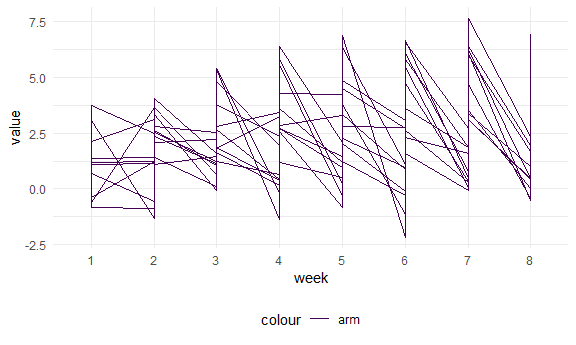
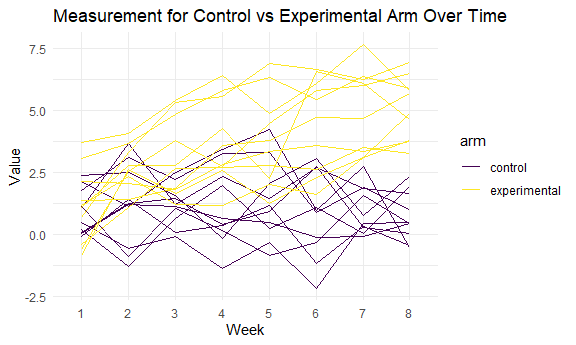
Made the plot for problem 2

diff --git a/p8105_hw5_lmb2295.md b/p8105_hw5_lmb2295.md
@@ -26,8 +26,14 @@ control_exp_df %>%
     names_prefix = "week_",
     values_to = "value"
     ) %>% 
-  ggplot(aes(x = week, y = value, group = id, color = "arm")) + 
-  geom_line()
+  unite(group, arm:id, sep = '', remove = FALSE) %>% 
+  ggplot(aes(x = week, y = value, group = group, color = arm)) + 
+  geom_line() + 
+  labs(
+    title = "Measurement for Control vs Experimental Arm Over Time",
+    x = "Week",
+    y = "Value") +
+   theme(legend.position = "right")
 ```
 
 <img src="p8105_hw5_lmb2295_files/figure-gfm/unnamed-chunk-2-1.png" width="90%" />
